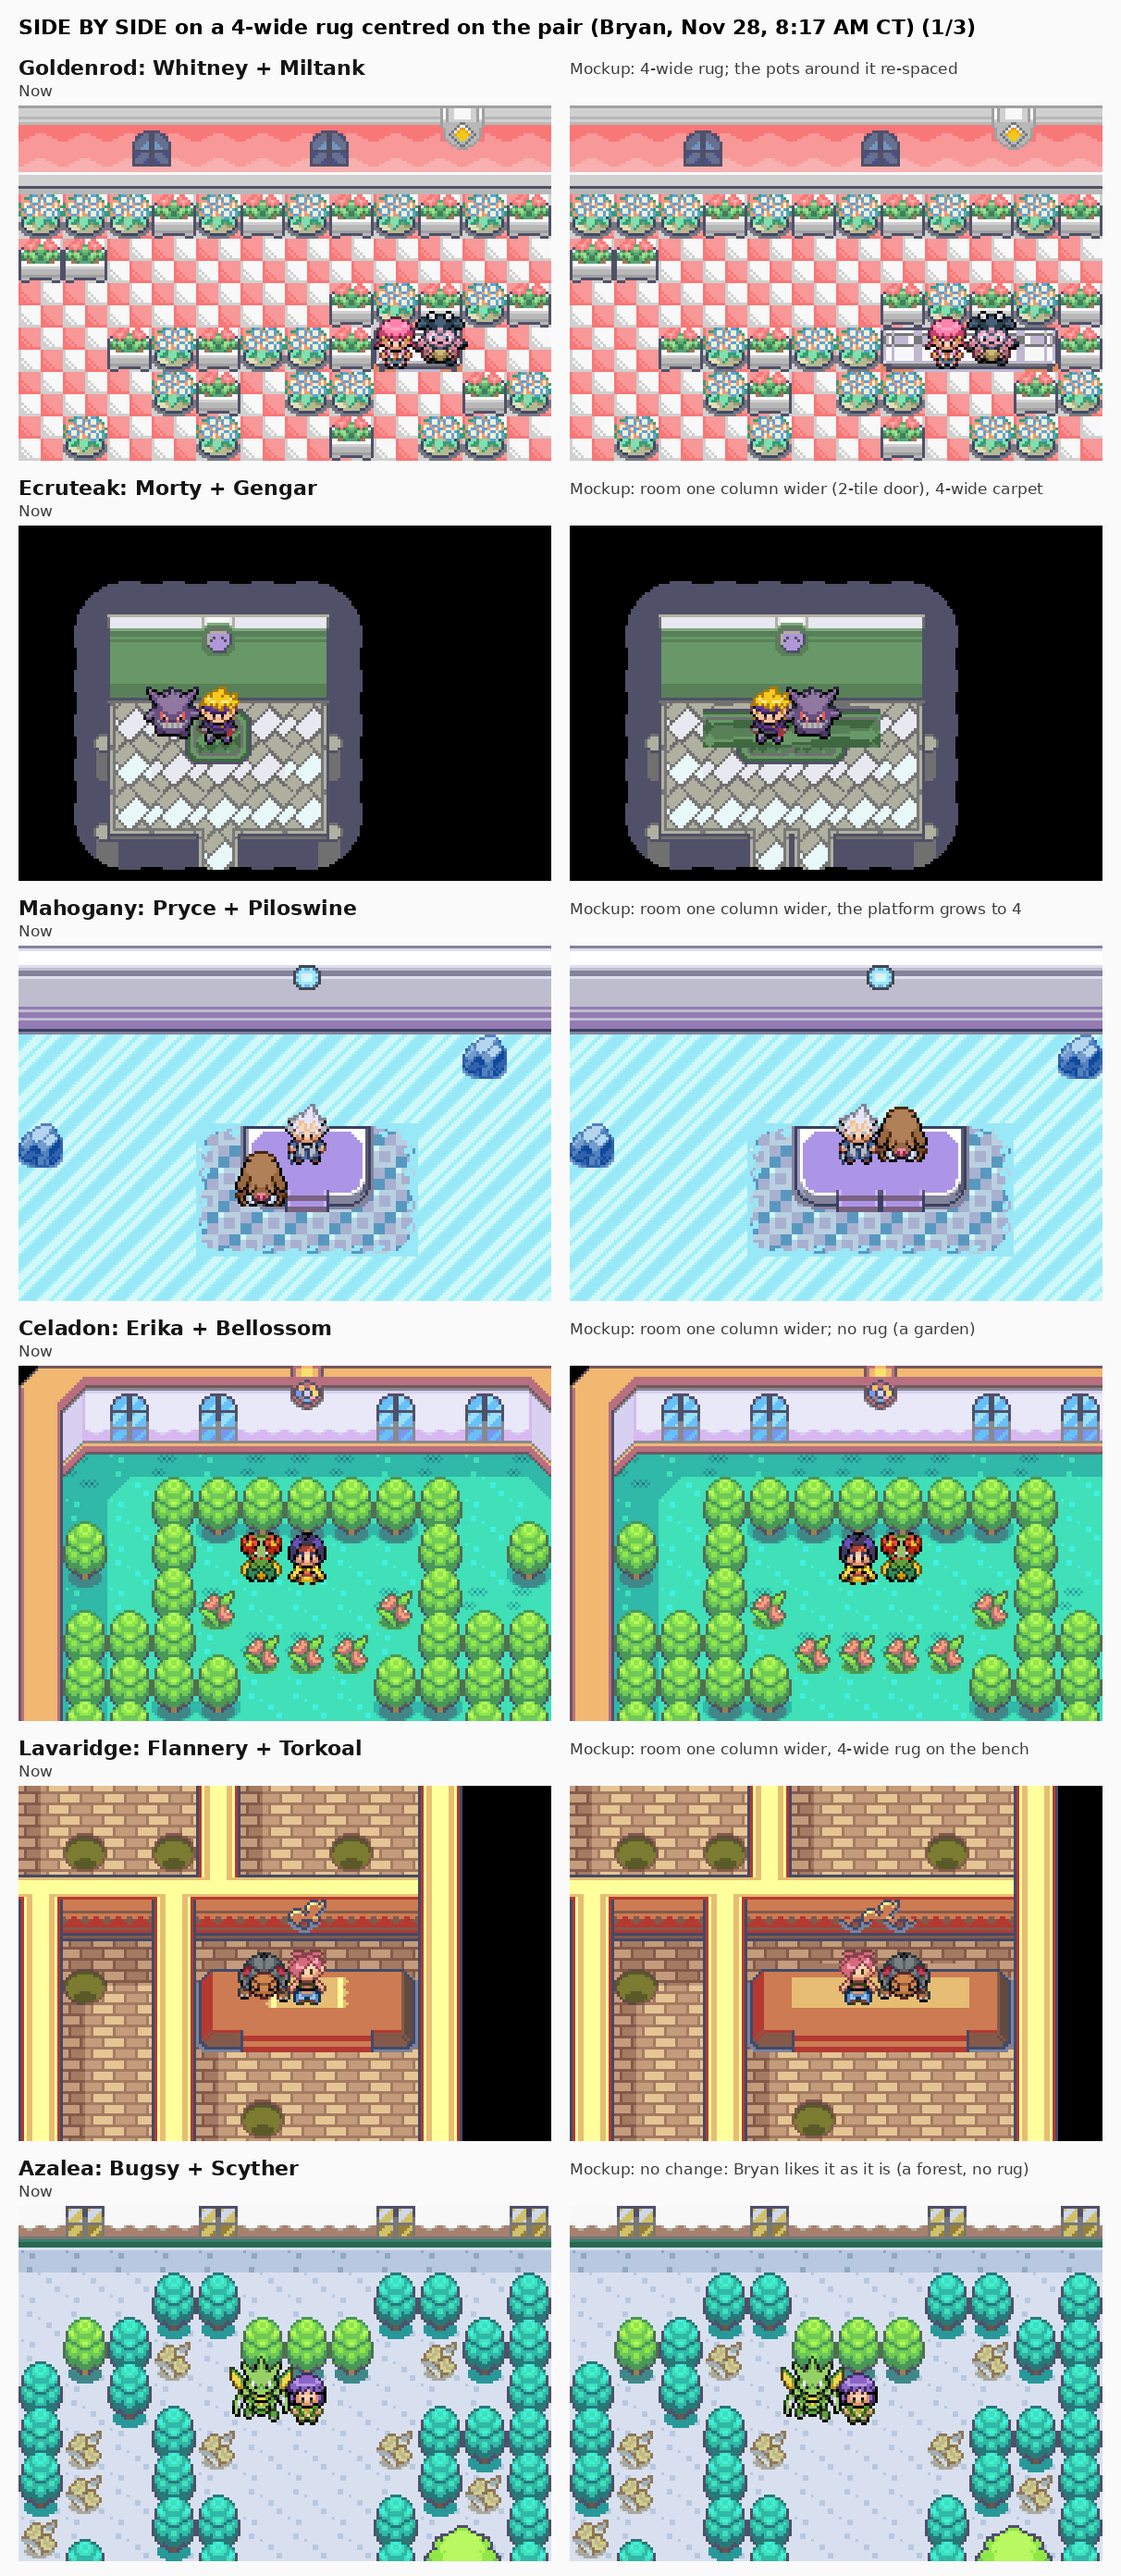
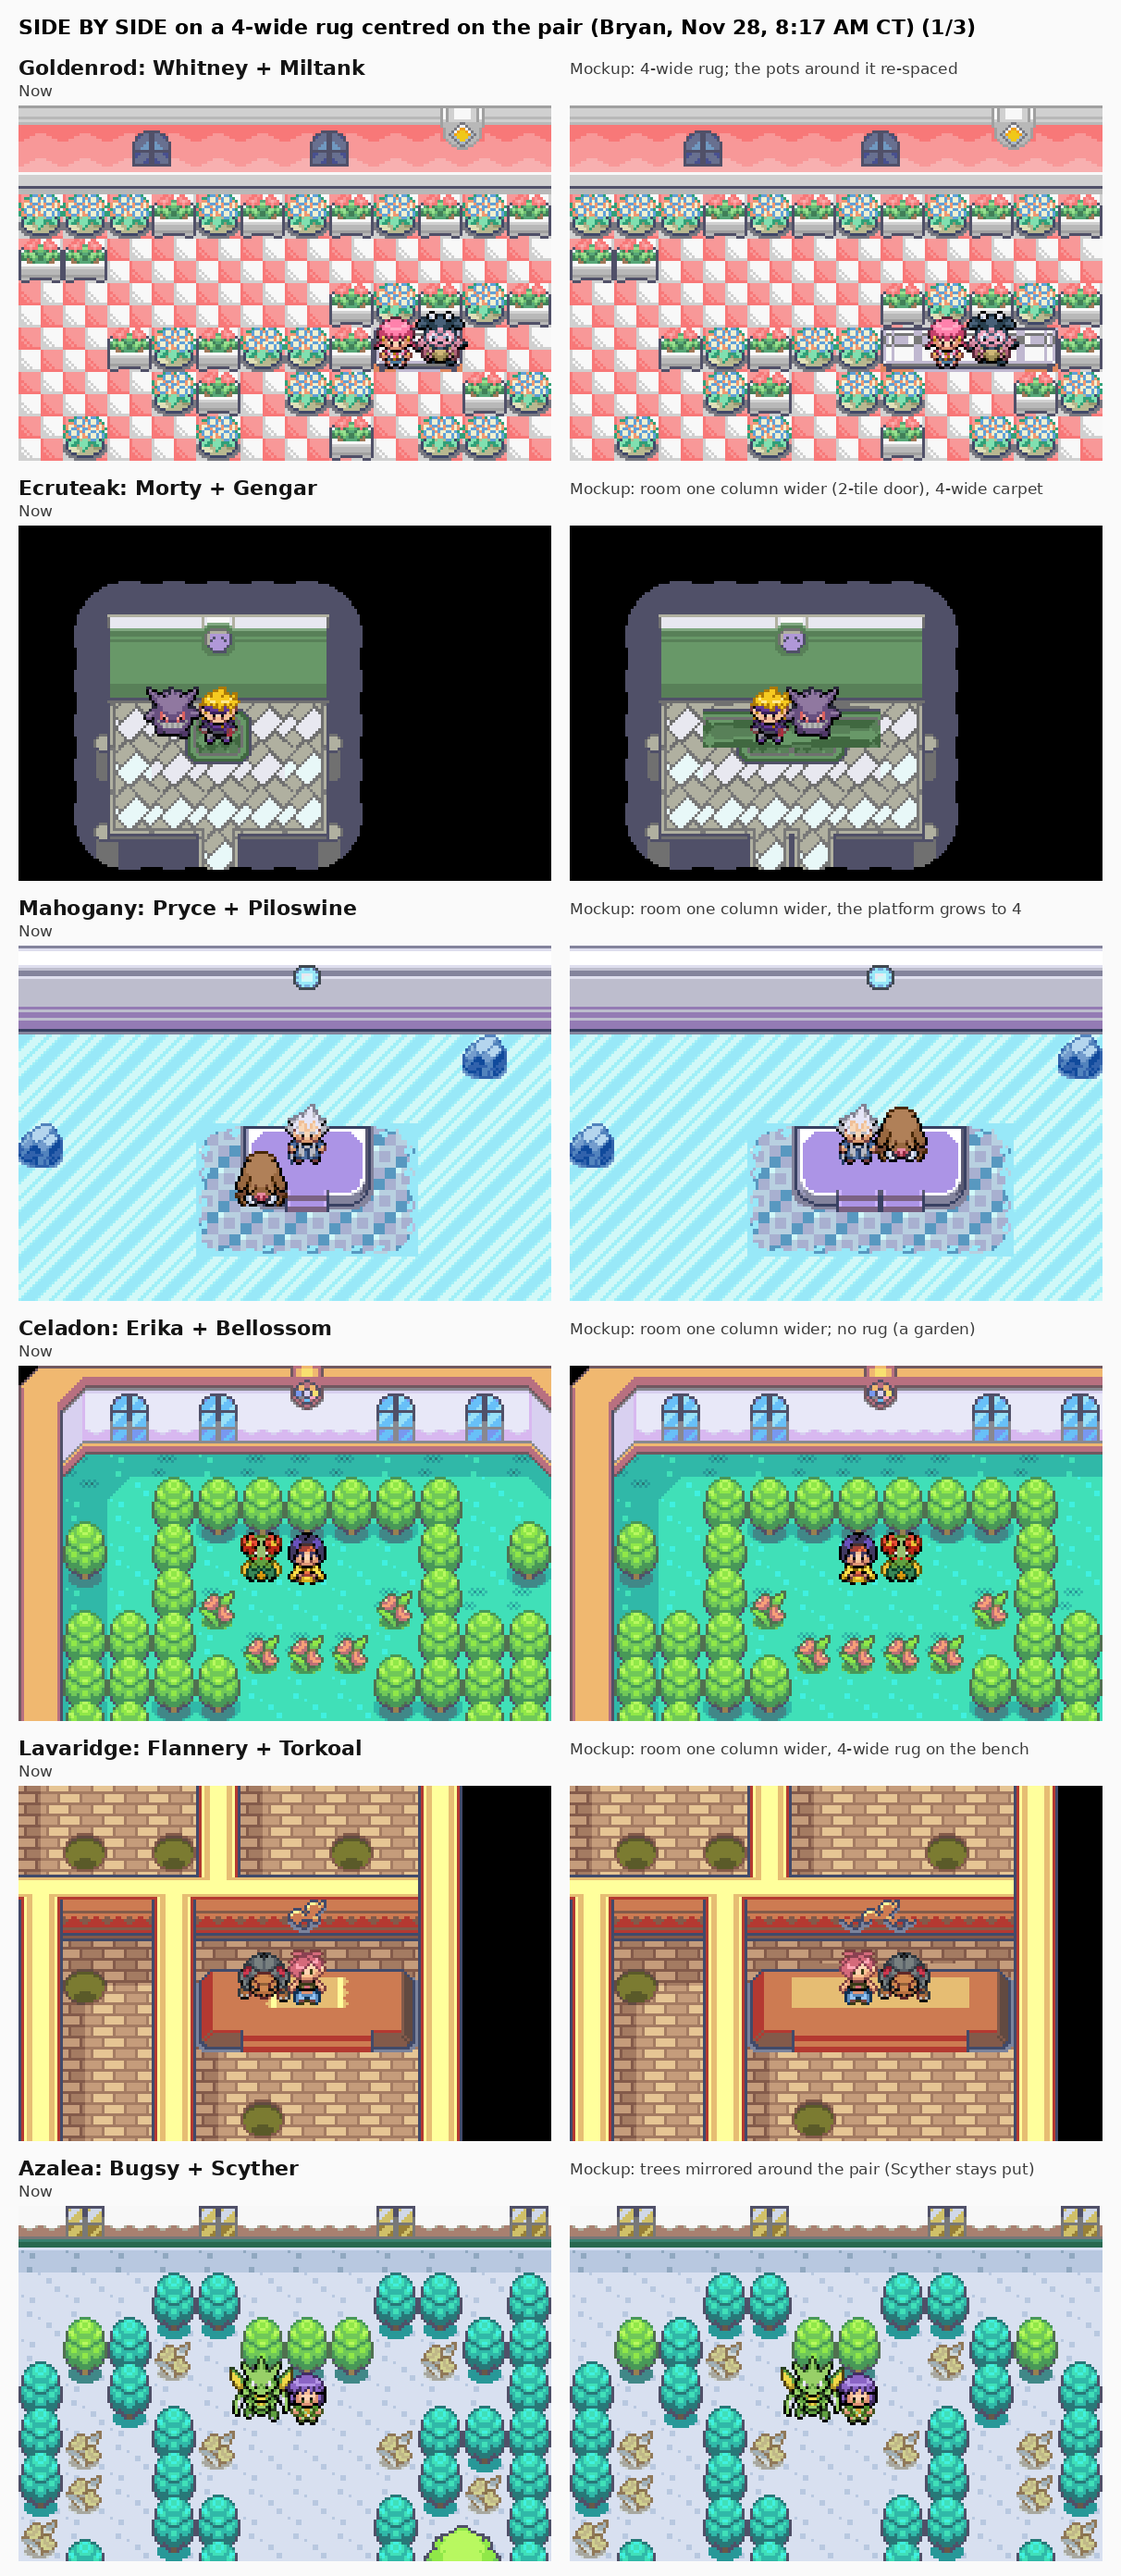
2.1-24: Azalea trees mirrored around the pair, Cerulean pedestal 2 wide; approved (Bryan)
Claude-Session: https://claude.ai/code/session_016u6mw2bBU5kbe58wHLEW5F

Changed region(s): [[0.7632, 0.875, 1.0, 1.0]]

diff --git a/hoenn-docs/2.1-mockups/gyms/README.md b/hoenn-docs/2.1-mockups/gyms/README.md
@@ -58,3 +58,8 @@ Each sprite is a 32×32 frame; the groups below go by the biggest side of the vi
   - Rooms with an odd width and a one-tile centre door get **one more column through the middle** (two-tile door, the wall emblem over the middle), so the 4-wide rug is centred in the room too: Ecruteak, Mahogany, Celadon, Lavaridge, Blackthorn, Cerulean, Vermilion, Saffron, Sootopolis, Viridian, Rustboro, Petalburg, Fortree. Most 3-wide rugs become 4 wide by themselves this way.
   - Already even: Goldenrod (the rug grows, pots re-spaced), Mauville, Dewford.
   - **Azalea unchanged** (Bryan likes Scyther where it is; a forest, no rug).
+
+**Approved (Bryan, Nov 28, 8:21 AM CT): "I love everything else"**, with two changes, both in the sheets now:
+- **Azalea:** the trees are rearranged to be symmetric around the pair (mirrored about the line between Scyther and Bugsy); the pair stays where it is.
+- **Cerulean:** the pedestal is one tile narrower on each side: 2 wide, just under Misty and Starmie (the pool still gets its extra middle column).
+This is the design 2.1-25 to 27 build.
